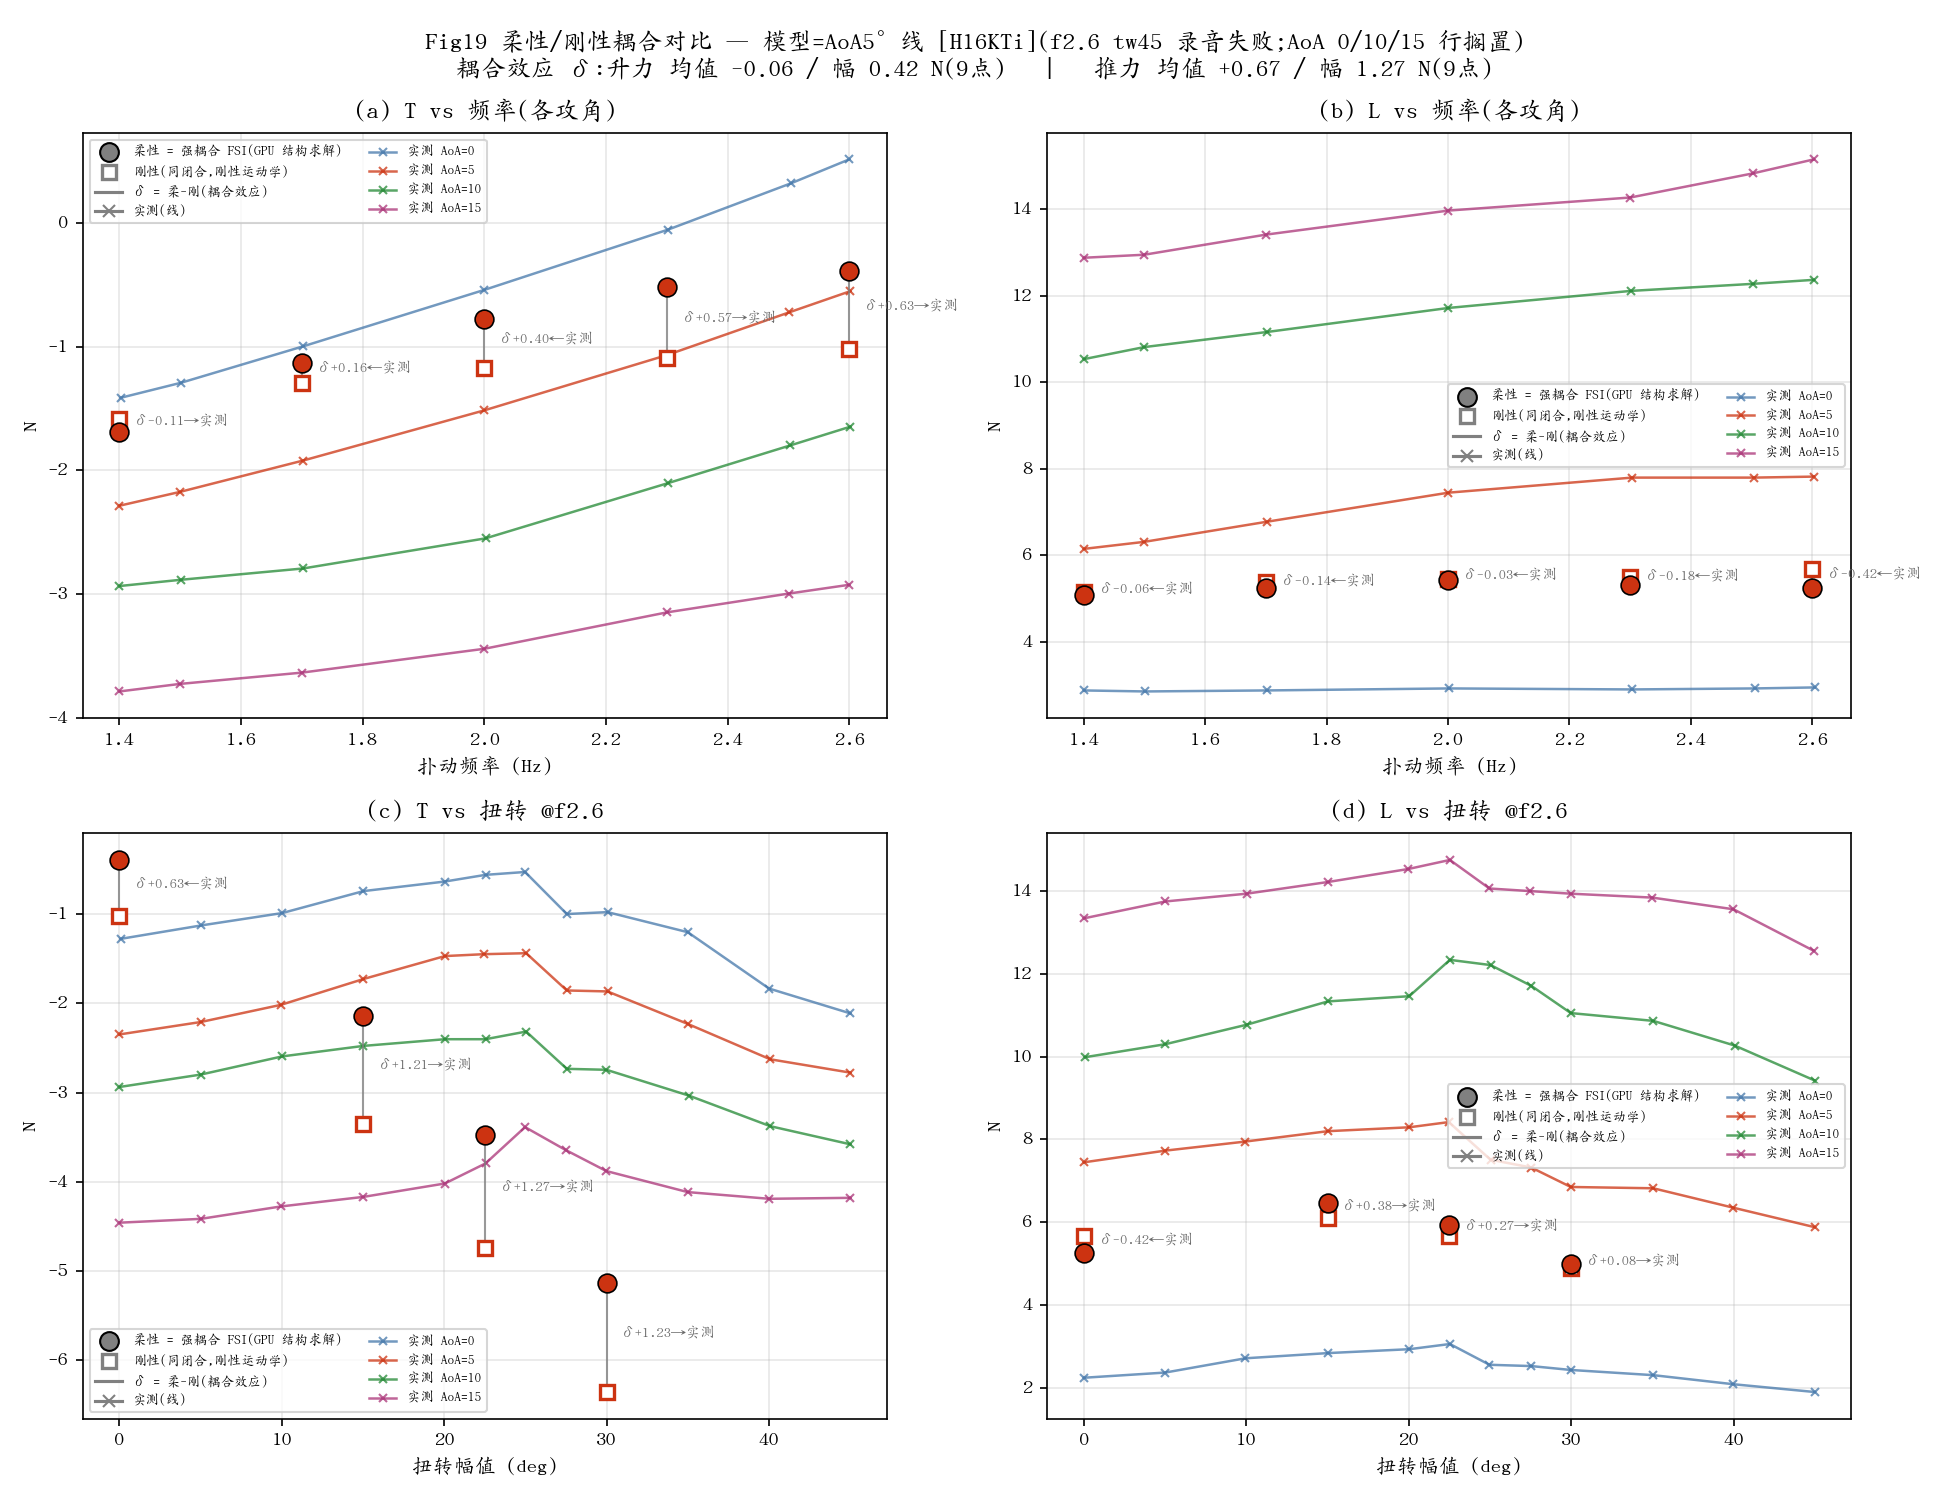
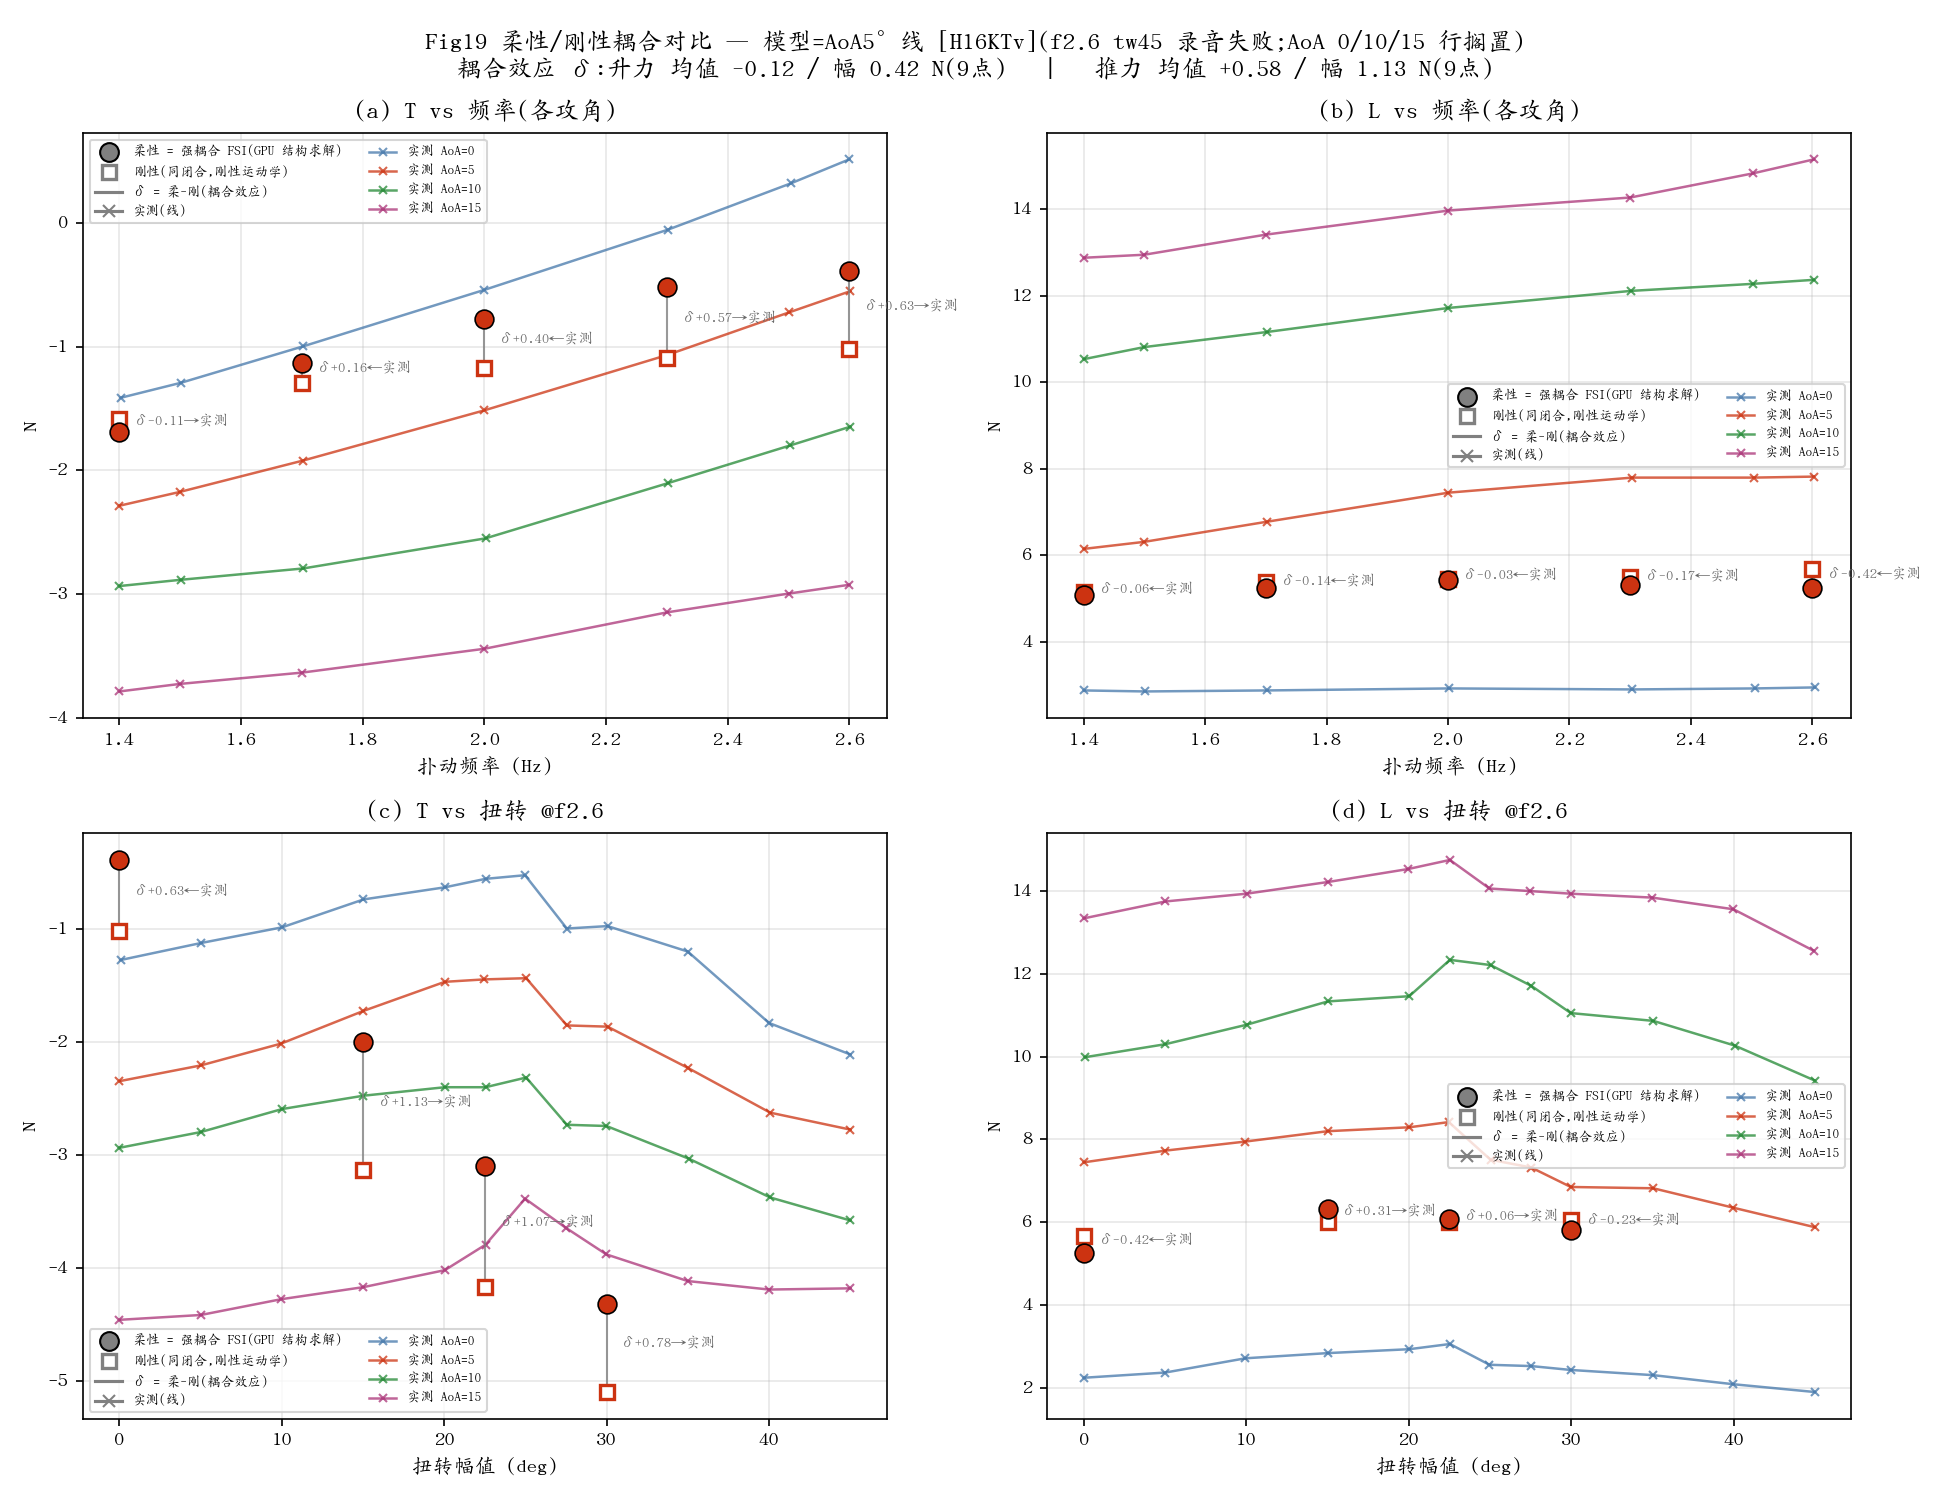
feat(GAP): H16KTv production closure + AoA-parametrized recording pipeline
Phase-resolved diagnosis corrected the case-A fingerprint: twist
over-drag peaks MID-STROKE (feathering+flap-speed peak), force
direction tracks geometric pitch, amplitude growth +57% (tw0->30) is
the fiction; kinematic conventions verified consistent (both replay
and recording are speed-phased feathering).

Directed test of archived C8 variant geo_stall_vec (vectorial
quasi-steady geometric stall, paper-Fig16-text supported): overlaps
kirch_tw (double-counting) -> H16KTv = kt + fsep_lag + geo_stall_vec
+ material impulse, kirch_tw OFF. nc12 gate (15-pt same-set): thrust
MAE 1.548->1.376, lift 1.903->1.804, twist slopes -15%, tw0 law
bit-unchanged. Assumption removed: the invented kirch_tw
linearization is replaced by the archived variant.

B-line: recording pipeline AoA-parametrized (record/replay/npz,
default paths backward-compatible); AoA0/10 smoke recordings clean
(155 windows, iters~3). Overnight queue: AoA 0/10/15 frequency lines.

diff --git a/platform/p2_s6_replay.py b/platform/p2_s6_replay.py
@@ -39,8 +39,10 @@ CHORD, AOA_DEG = 0.287, 5.0
 AMP_DEG = 45.0
 
 
-def _npz_path(U, freq, tw=0.0):
+def _npz_path(U, freq, tw=0.0, aoa=None):
     suf = f"_tw{tw:g}" if tw else ""
+    if aoa is not None and abs(float(aoa) - AOA_DEG) > 1e-9:
+        suf += f"_aoa{float(aoa):g}"
     return os.path.join(DOCS, f"s6_defl_U{U:g}_f{freq:g}{suf}.npz")
 
 
@@ -93,7 +95,7 @@ class TwistTopKin:
 
 
 def record(U, freq, tw_deg=0.0, n_cycles=2.0, rc0_scale=1.0, resume=None,
-           ckpt_every=15):
+           ckpt_every=15, aoa_deg=None):
     """S5 coupled run; record aero-grid (du, dv) vs rigid frame per window.
     tw_deg > 0: mechanism twist (root pitch about the main spar, TwistTopKin);
     the du/dv reference is then the production LINEAR-twist rigid field so
@@ -110,7 +112,8 @@ def record(U, freq, tw_deg=0.0, n_cycles=2.0, rc0_scale=1.0, resume=None,
     from newton_pc.adapters.flap import FlapUVLMProvider, NodalForceSet
 
     period = 1.0 / freq
-    alpha = np.deg2rad(AOA_DEG)
+    aoa_deg = AOA_DEG if aoa_deg is None else float(aoa_deg)   # (B线 普适) AoA 参数化
+    alpha = np.deg2rad(aoa_deg)
     dtw = (CHORD / 8) / U
     substeps = 40
     n_windows = int(round(n_cycles * period / dtw))
@@ -189,7 +192,7 @@ def record(U, freq, tw_deg=0.0, n_cycles=2.0, rc0_scale=1.0, resume=None,
         c_, s_ = np.cos(th), np.sin(th)
         R = np.array([[1, 0, 0], [0, c_, -s_], [0, s_, c_]])
         return (g.reshape(-1, 3) @ R.T).reshape(ns_ + 1, nc_ + 1, 3)
-    ckpt_path = _npz_path(U, freq, tw_deg) + ".ckpt"
+    ckpt_path = _npz_path(U, freq, tw_deg, aoa_deg) + ".ckpt"
     ts, dus, dvs, lifts, thrusts, iters = [], [], [], [], [], []
     w_start = 0
     if resume and os.path.exists(resume):
@@ -255,7 +258,7 @@ def record(U, freq, tw_deg=0.0, n_cycles=2.0, rc0_scale=1.0, resume=None,
             print(f"  w={w:3d}/{n_windows} t={t:.3f}s it={s.iterations:2d} "
                   f"L={lifts[-1]:+7.2f} |du|max={np.abs(du).max()*1e3:5.1f}mm "
                   f"[{_time.time()-t0_:.0f}s]", flush=True)
-    np.savez(_npz_path(U, freq, tw_deg), ts=np.array(ts), dus=np.array(dus),
+    np.savez(_npz_path(U, freq, tw_deg, aoa_deg), ts=np.array(ts), dus=np.array(dus),
              dvs=np.array(dvs), lifts=np.array(lifts),
              thrusts=np.array(thrusts), iters=np.array(iters),
              period=period, phase0=period / 4.0, fail=str(fail),
@@ -266,7 +269,7 @@ def record(U, freq, tw_deg=0.0, n_cycles=2.0, rc0_scale=1.0, resume=None,
         print(f"  cycle-mean (last cycle, x2 half-wing): "
               f"2L={2*np.mean(lifts[-wpc:]):+.2f} N  "
               f"2T={2*np.mean(thrusts[-wpc:]):+.2f} N")
-    print(f"recorded {len(ts)} windows -> {_npz_path(U, freq, tw_deg)}  "
+    print(f"recorded {len(ts)} windows -> {_npz_path(U, freq, tw_deg, aoa_deg)}  "
           f"(iters mean {np.mean(iters):.1f}, fail={fail})")
 
 
@@ -318,18 +321,19 @@ class DeformInterp:
                 self._resample(dv).transpose(1, 0, 2))
 
 
-def replay(U, freq, tw=0.0, cfg_name="K0", nc=12, ns=16, n_cycle=4):
+def replay(U, freq, tw=0.0, cfg_name="K0", nc=12, ns=16, n_cycle=4, aoa_deg=None):
     from _v2_robo import gpu_run_twist
     sys.path.insert(0, _HERE)
     from _v2_repro_nc12 import CFG_PRESETS, spc_of
     kw = dict(CFG_PRESETS[cfg_name])
     spc = spc_of(U, freq)
-    hook = DeformInterp(_npz_path(U, freq, tw), nc, ns)
-    out_flex = gpu_run_twist(U=U, aoa_deg=AOA_DEG, freq=freq, twist_amp_deg=tw,
+    aoa = AOA_DEG if aoa_deg is None else float(aoa_deg)
+    hook = DeformInterp(_npz_path(U, freq, tw, aoa), nc, ns)
+    out_flex = gpu_run_twist(U=U, aoa_deg=aoa, freq=freq, twist_amp_deg=tw,
                              twist_phase_deg=90.0, nc=nc, ns=ns, n_cycle=n_cycle,
                              steps_per_cycle=spc, wake_rows=spc,
                              deform_hook=hook, **kw)
-    out_rig = gpu_run_twist(U=U, aoa_deg=AOA_DEG, freq=freq, twist_amp_deg=tw,
+    out_rig = gpu_run_twist(U=U, aoa_deg=aoa, freq=freq, twist_amp_deg=tw,
                             twist_phase_deg=90.0, nc=nc, ns=ns, n_cycle=n_cycle,
                             steps_per_cycle=spc, wake_rows=spc, **kw)
     Lf, Tf = float(out_flex["L_wind"]), float(out_flex["T_wind"])

diff --git a/platform/p2_s6_fig_strict.py b/platform/p2_s6_fig_strict.py
@@ -27,7 +27,7 @@ rcParams["axes.unicode_minus"] = False
 _HERE = os.path.dirname(os.path.abspath(__file__))
 DOCS = os.path.join(_HERE, "docs")
 MEAS = json.load(open(os.path.join(DOCS, "repro_data.json")))
-CFG = "H16KTi"                                     # current best closure (kt + kirch_tw + material impulse)
+CFG = "H16KTv"                                     # current best (kt + material impulse + vectorial geo-stall)
 
 PTS = {}
 _p = os.path.join(DOCS, "s6_results_lessep.json")

diff --git a/platform/p2_s6_fig_fsi.py b/platform/p2_s6_fig_fsi.py
@@ -24,7 +24,7 @@ rcParams["axes.unicode_minus"] = False
 _HERE = os.path.dirname(os.path.abspath(__file__))
 DOCS = os.path.join(_HERE, "docs")
 MEAS = json.load(open(os.path.join(DOCS, "repro_data.json")))
-CFG = "H16KTi"
+CFG = "H16KTv"
 
 PTS = {}
 for k, v in json.load(open(os.path.join(DOCS, "s6_results_lessep.json"))).items():
